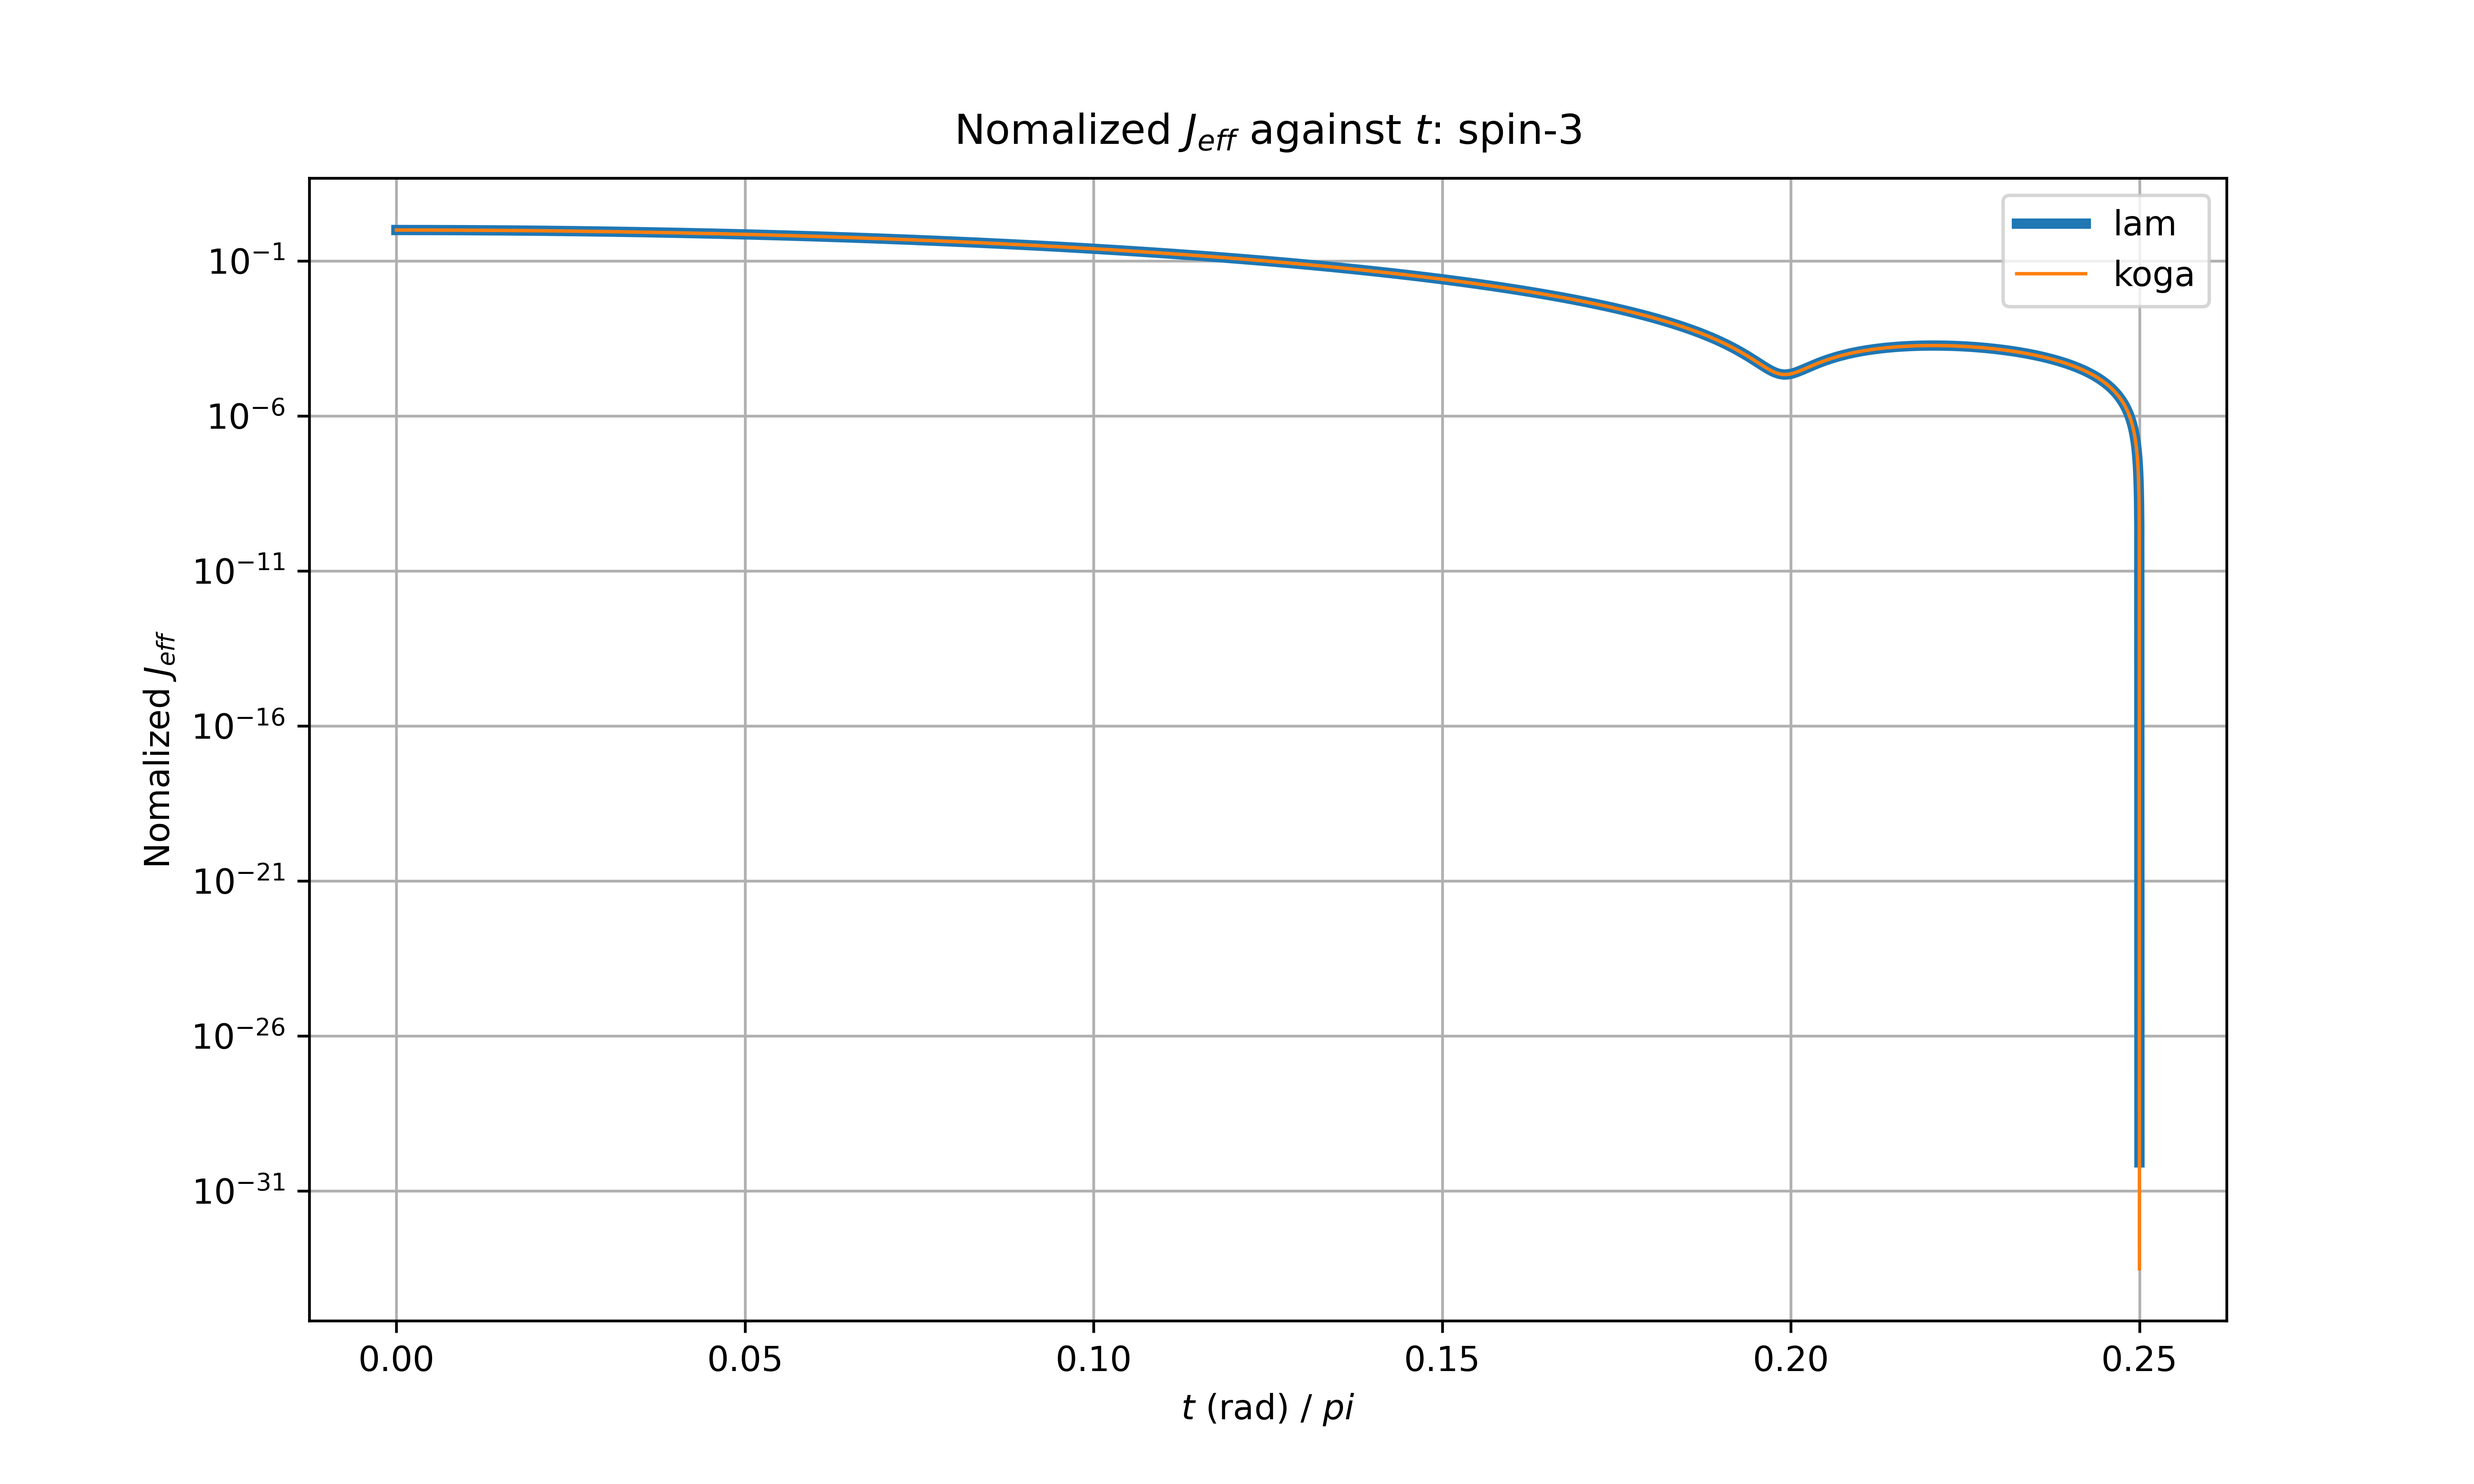
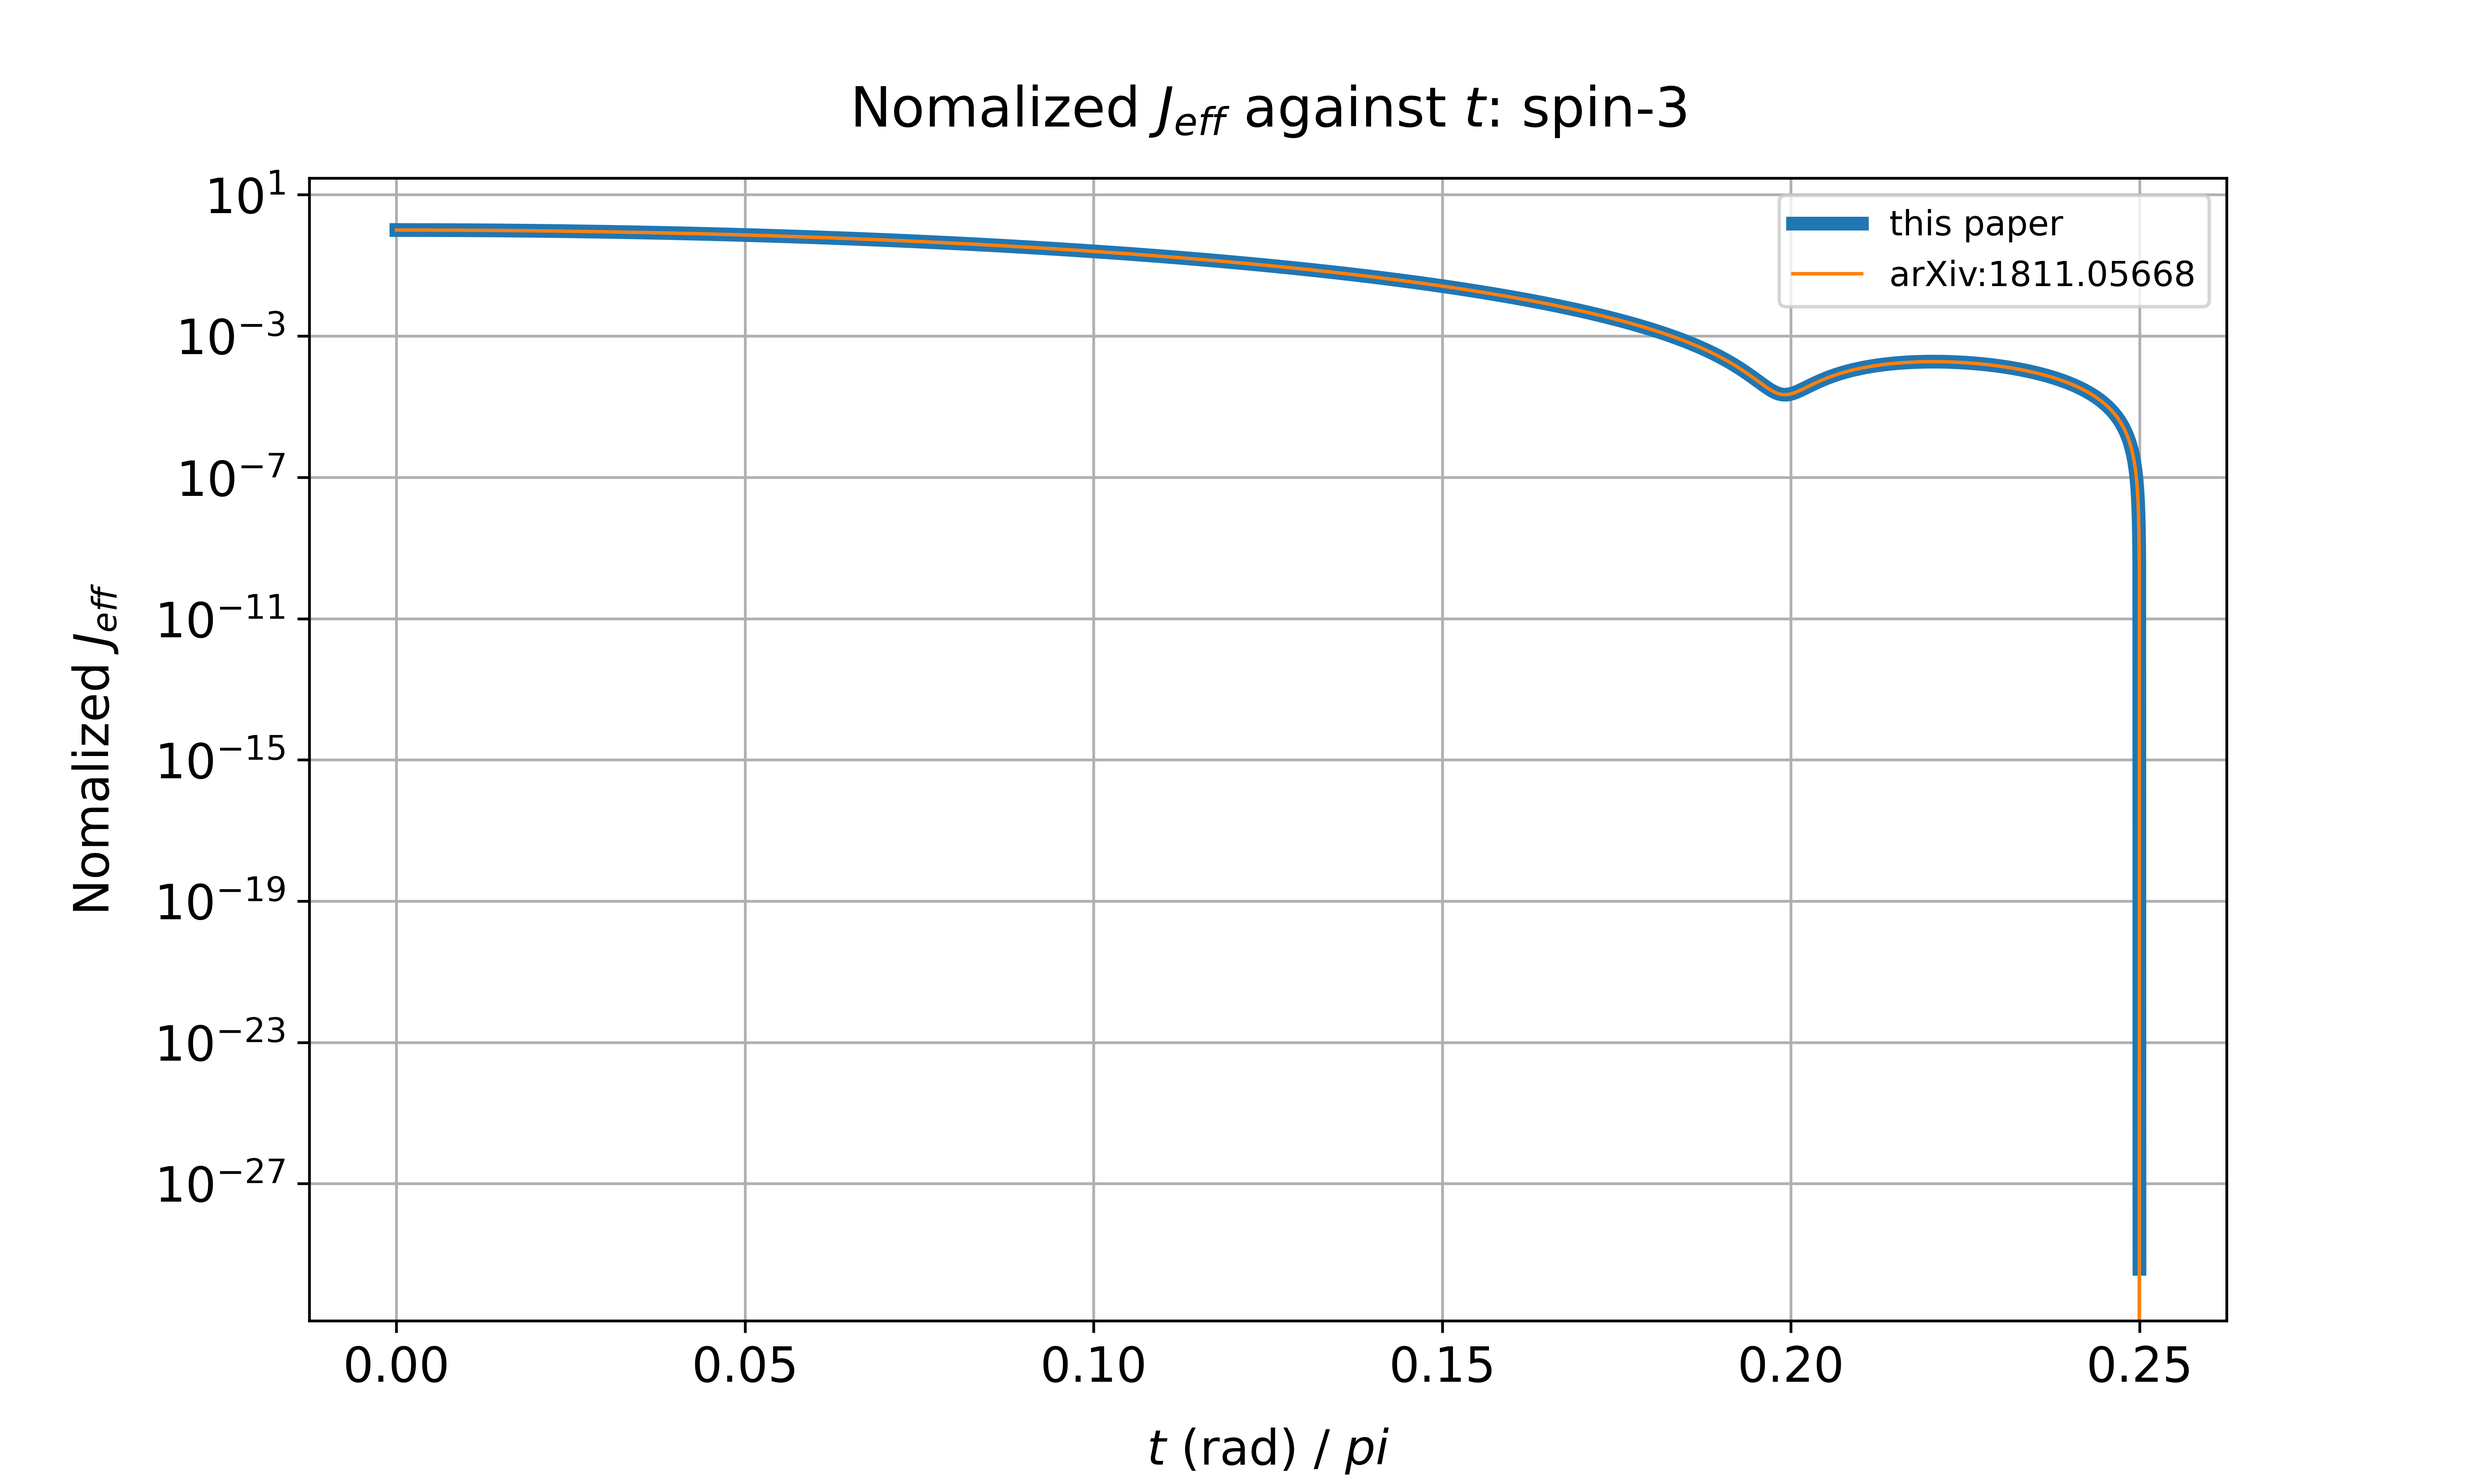
results and plots

diff --git a/Results+Plot/utils_analysis.py b/Results+Plot/utils_analysis.py
@@ -161,34 +161,19 @@ def normalize_J_eff(func, coeff, spin_S, t_values):
     
     return normalized_J_eff
 
-def plot_koga_lam(t_values, norm_J_eff_lam,  norm_J_eff_koga, spin_S):
+def plot_koga_lam_single(t_values, norm_J_eff_lam,  norm_J_eff_koga, spin_S):
 
     plt.figure(figsize=(10, 6))
-    plt.plot(t_values / pi, norm_J_eff_lam, label='lam', linewidth = 3)
-    plt.plot(t_values / pi, norm_J_eff_koga, label='koga', linewidth = 1)
-    plt.xlabel(r'$t$ (rad) / $pi$')
-    plt.ylabel(r'Nomalized $J_{eff}$')
-    plt.title(r'Nomalized $J_{eff}$ against $t$' + f': spin-{spin_S}', pad = 10)
+    plt.plot(t_values / pi, norm_J_eff_lam, label='this paper', linewidth = 4)
+    if spin_S !="4":
+        plt.plot(t_values / pi, norm_J_eff_koga, label='arXiv:1811.05668', linewidth = 1)
+    plt.xlabel(r'$t$ (rad) / $pi$', fontsize=14, labelpad=10)
+    plt.ylabel(r'Nomalized $J_{eff}$', fontsize=14, labelpad=10)
+    plt.xticks(fontsize=14)  # x-ticks font size
+    plt.yticks(fontsize=14)  # y-ticks font size
+    plt.title(r'Nomalized $J_{eff}$ against $t$' + f': spin-{spin_S}', pad = 15, fontsize=16)
     plt.yscale('log')
     plt.legend()
     plt.grid(True)
     plt.savefig(f'plot-spin-{spin_S}.png', format='png', dpi=600)
     plt.close()
-
-"""
-def compute_z(x):
-    z = a*(1+x**16) - 2*b*(x**2 + x**14) + (2*c+d)*(x**4 + x **12) + (-2*b-2*e)*(x**6 + x**10) + (2*d+2*a+f)*(x**8)
-    return z
-
-def solve_for_x(x0):
-    
-    # Use fsolve to find the root
-    solution = fsolve(compute_z, x0)
-    return solution[0]  # Return the solution
-
-x0 = 0.5
-x_solution = solve_for_x(x0)
-
-print(x_solution, compute_z(x_solution))
-
-"""

diff --git a/utils.py b/utils.py
@@ -1,8 +1,9 @@
 """
-This module contains utility functions and constants for processing combinatorial 
-arrays, reading model parameters from input files, and saving results. It is 
-designed for use in a computational workflow dealing with combinatorial 
-permutations and parallel processing for integer spin systems.
+This support module contains utility functions and constants for 
+reading model parameters from input files, generating combinatorial arrays
+for use within each permute, and saving results. It is designed to be used
+within the broader computational workflow involving parallel processing
+to compute diagram amplitudes in the context of integer spin systems.
 
 Functions:
 - read_model_params(filename): Reads spin, bond permutations, and a multiplicative factor 

diff --git a/main_parallel.py b/main_parallel.py
@@ -1,7 +1,8 @@
 """
-This is the main Python file to execute. It utilizes parallel processing to handle large-scale computations for spin systems involving permutations
-and energy summations. It employs producer-consumer architecture for efficient processing and uses multiprocessing 
-to distribute the workload across multiple CPU cores.
+This is the main Python file to execute. It utilizes parallel processing 
+to handle large-scale computations for spin systems involving permutations
+and energy summations. It employs producer-consumer architecture for efficient processing 
+and uses multiprocessing to distribute the workload across multiple CPU cores.
 
 Key Features:
 1. **Parallel Processing**:

diff --git a/Results+Plot/main_analysis.py b/Results+Plot/main_analysis.py
@@ -33,4 +33,4 @@ norm_J_eff_lam = normalize_J_eff(J_eff_sum_lam, lam_coeff, spin_S, t_values)
 norm_J_eff_koga = normalize_J_eff(J_eff_sum_koga, koga_coeff, spin_S, t_values)
 
 # Plot the results
-plot_koga_lam(t_values, norm_J_eff_lam, norm_J_eff_koga, spin_S)
+plot_koga_lam_single(t_values, norm_J_eff_lam, norm_J_eff_koga, spin_S)
